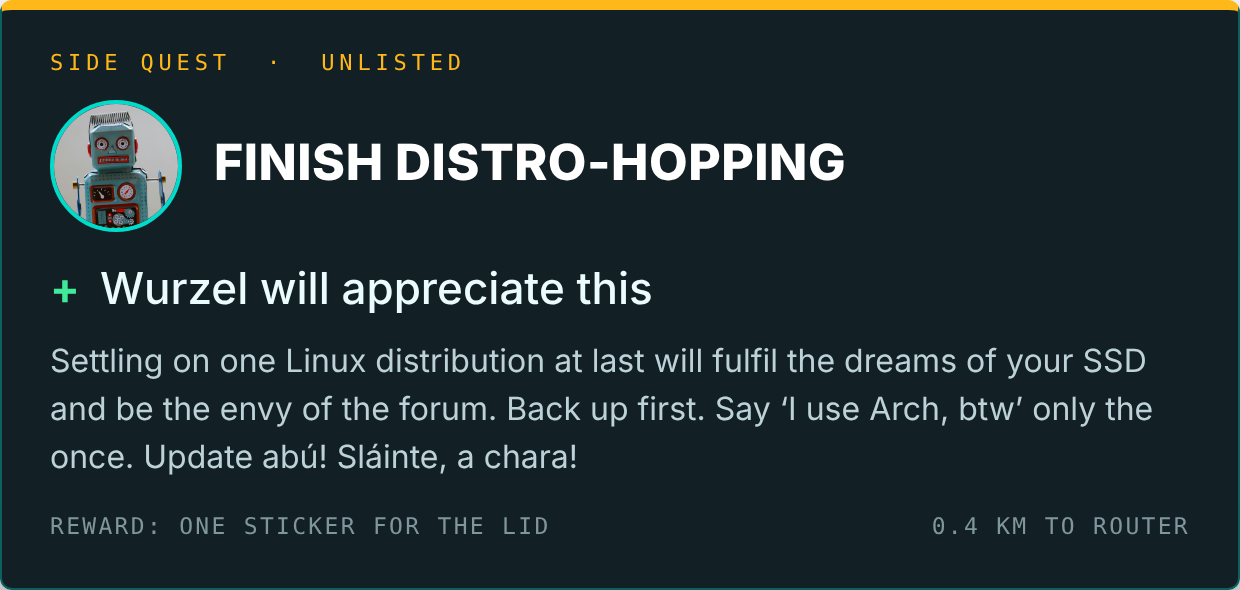
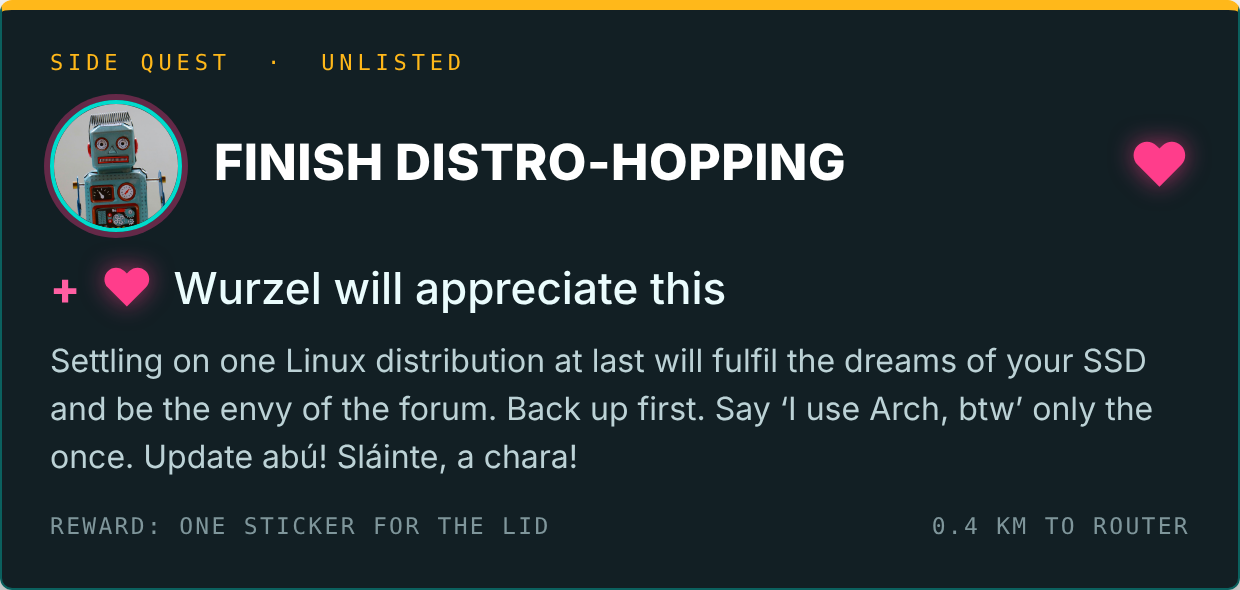
The Gateway Distro: love hearts on the side quest card
Claude-Session: https://claude.ai/code/session_018wdzkedtpyQWRQtQjLPRXB

diff --git a/the-gateway-distro/side-quest.html b/the-gateway-distro/side-quest.html
@@ -9,14 +9,16 @@ body{margin:0;background:transparent;font-family:'Inter',system-ui,sans-serif}
 .sq .pic{flex:none;width:62px;height:62px;border-radius:50%;object-fit:cover;border:2px solid #00dbcc}
 .sq h3{margin:0;font-weight:800;font-size:25px;line-height:1.1;letter-spacing:.01em;text-transform:uppercase;color:#fff}
 .sq .like{display:flex;align-items:center;gap:10px;margin:16px 0 10px;font-size:22px;font-weight:500;color:#eafcfd}
-.sq .like b{color:#40ea99;font-weight:700}
+.sq .like b{color:#ff5fa2;font-weight:800}
+.sq .hrt{color:#ff3d8b;font-size:26px;line-height:1;text-shadow:0 0 12px rgba(255,61,139,.6)}
+.sq .head .pic{box-shadow:0 0 0 3px rgba(255,61,139,.35)}
 .sq p{margin:0;font-size:16px;line-height:1.5;color:#bcd2d6}
 .sq .foot{display:flex;justify-content:space-between;margin-top:16px;font-family:'JetBrains Mono',monospace;font-size:11.5px;letter-spacing:.1em;text-transform:uppercase;color:#7f969b}
 </style></head><body>
 <div class="sq" id="sq">
  <div class="tag">Side quest &nbsp;·&nbsp; Unlisted</div>
- <div class="head"><img class="pic" src="../wurzel-and-the-night-shift/wurzel-photo.jpg" alt=""><h3>Finish distro-hopping</h3></div>
- <div class="like"><b>+</b> Wurzel will appreciate this</div>
+ <div class="head"><img class="pic" src="../wurzel-and-the-night-shift/wurzel-photo.jpg" alt=""><h3>Finish distro-hopping</h3><span class="hrt" style="margin-left:auto;font-size:30px">&#9829;</span></div>
+ <div class="like"><b>+</b><span class="hrt">&#9829;</span> Wurzel will appreciate this</div>
  <p>Settling on one Linux distribution at last will fulfil the dreams of your SSD and be the envy of the forum. Back up first. Say &lsquo;I use Arch, btw&rsquo; only the once. Update abú! Sláinte, a chara!</p>
  <div class="foot"><span>Reward: one sticker for the lid</span><span>0.4 km to router</span></div>
 </div>
